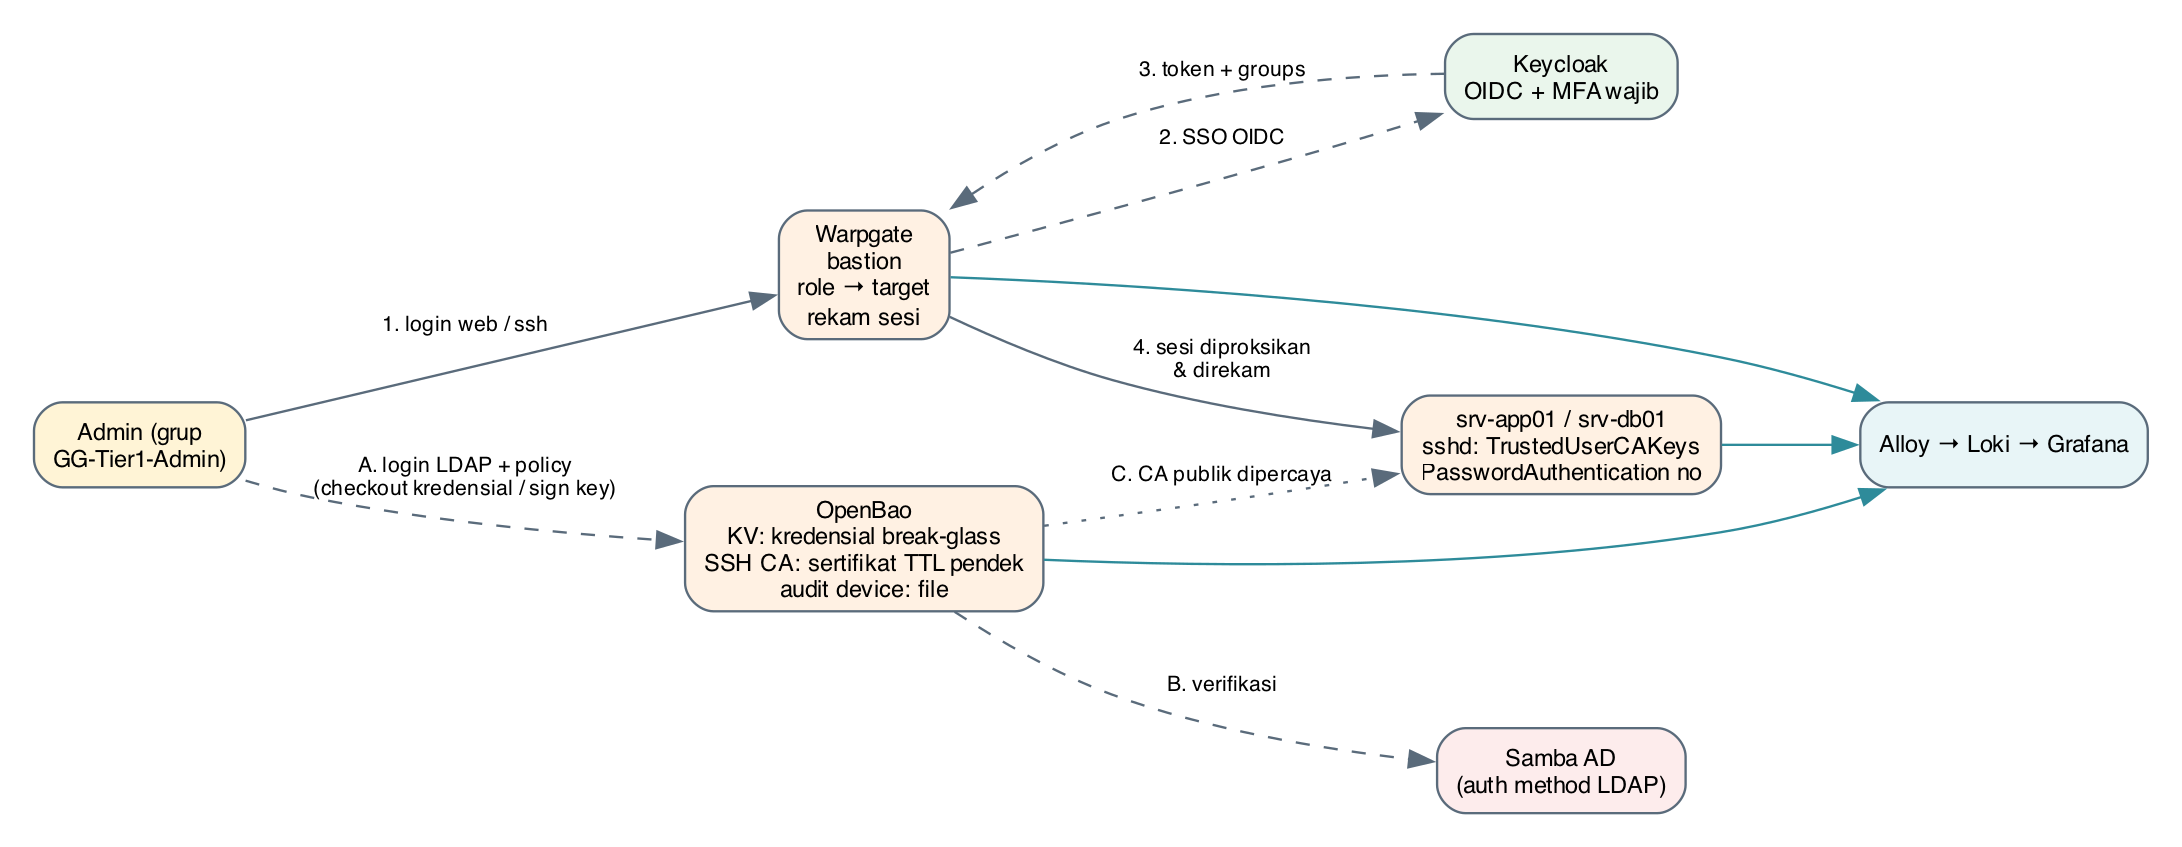
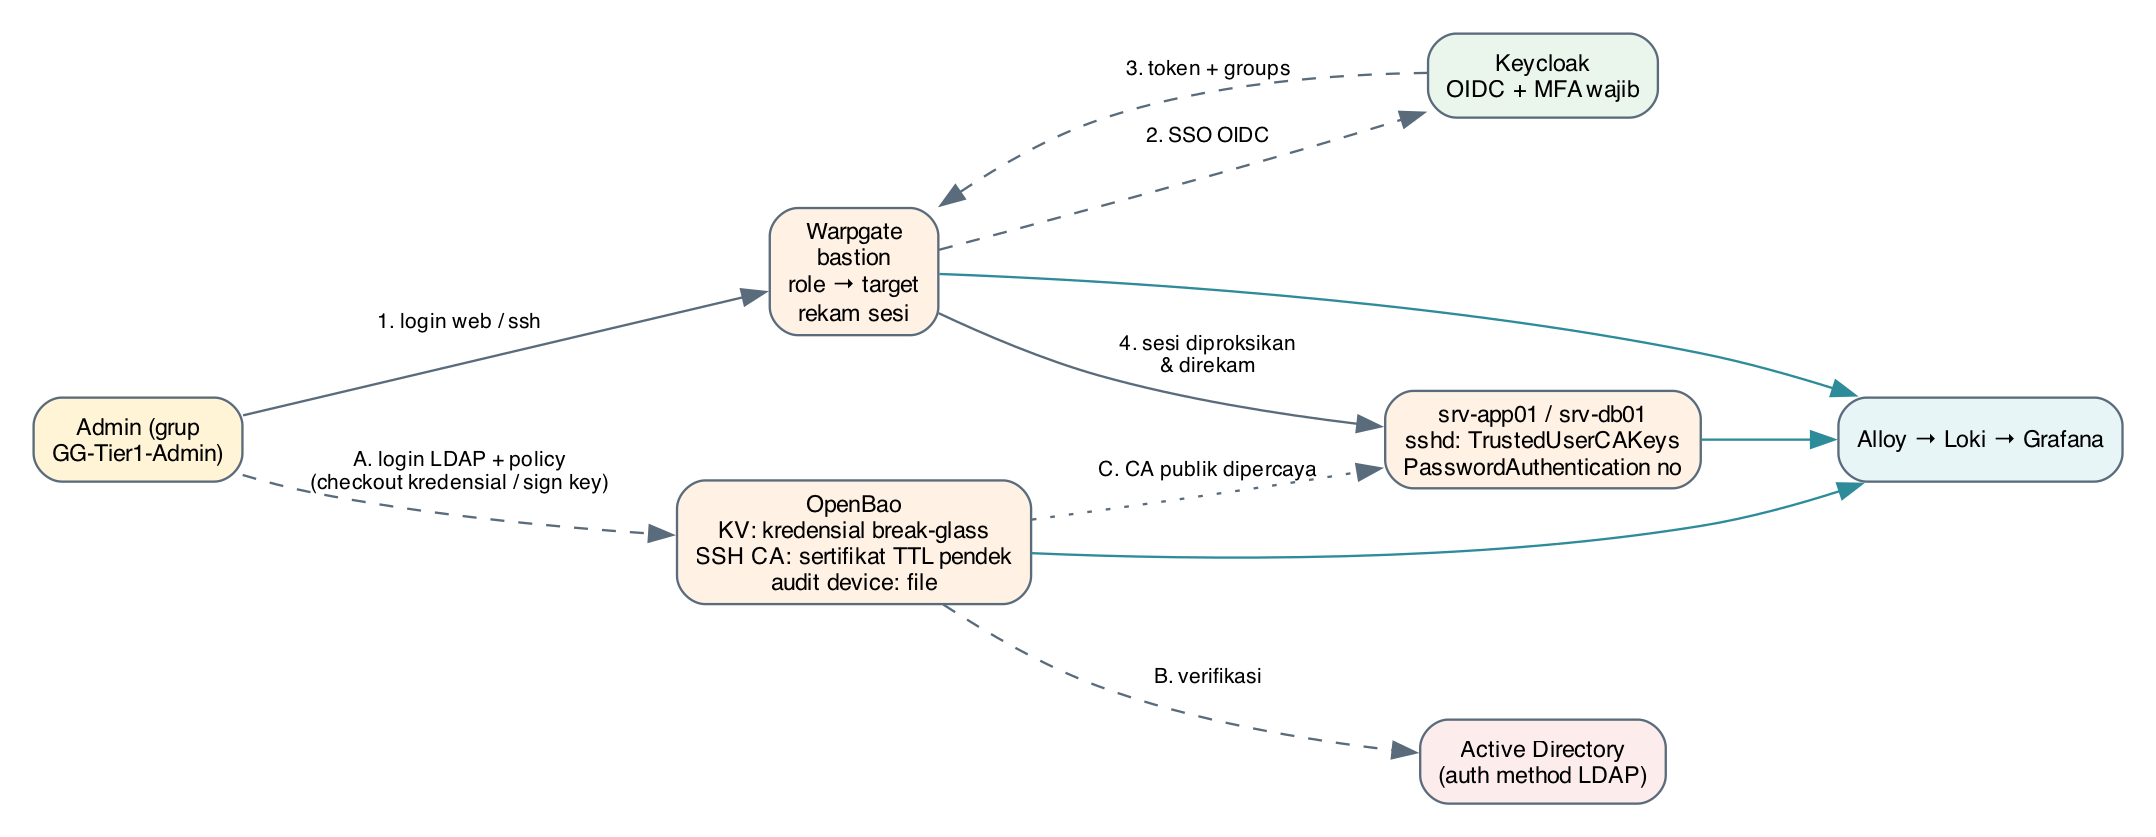
Perbaikan dari QA konteks-baru: samakan narasi AD Windows, perbaiki gambar bukti
- C1/C2: screenshot LDAP kini ldap-ad + ldaps://dc1.iamlab.test:636 (bukan samba/389);
  diagram alur-pam & pipeline-log pakai Active Directory / Windows Event (bukan Samba)
- M2: Warpgate login → konsol admin (Config: target SSH, Users, Access roles, rekam sesi)
- M3: Mailpit kini berisi email (akun baru, alert brute force, reset sandi)
- M1: hapus placeholder dev & lunakkan janji screenshot GUI Windows di Sesi 1
- M4: hapus referensi 'Bab 11 dokumen' dari import-ad.ps1
- m1: tambah screenshot Client tab Advanced (PKCE S256)
- m4/m5: catatan admin permanen; catatan deploy disediakan instruktur

diff --git a/sesi-2-sso-mfa/README.md b/sesi-2-sso-mfa/README.md
@@ -91,6 +91,10 @@ Cocokkan layar pengaturan client:
 
 ![Keycloak — detail Client app-komentar (redirect URI, PKCE, akses)](gambar/kc-client-detail.png)
 
+Tab Advanced menampilkan PKCE S256 (wajib):
+
+![Keycloak — Client app-komentar tab Advanced (PKCE S256)](gambar/kc-client-advanced.png)
+
 ![Keycloak — daftar Clients realm iamlab](gambar/kc-clients.png)
 
 Lalu 🖥 salin **Client secret** ke `deploy/.env` (`APP_OIDC_CLIENT_SECRET=…`) dan muat
@@ -109,10 +113,13 @@ ulang aplikasi: `docker compose up -d app-komentar`.
 - **Authentication → Flows**: duplikat *Browser*, tambah sub-flow **Conditional OTP** →
   *OTP Form* **Required**, targetkan ke grup admin & client kritikal (Grafana, Warpgate).
 
-  ![Keycloak — Authentication flows](gambar/kc-auth-flows.png)
+  ![Keycloak — Authentication flows (duplikat Browser lalu tambah sub-flow Conditional OTP = Required)](gambar/kc-auth-flows.png)
 
 - Uji: pengguna biasa login App-Komentar tanpa OTP; **admin dipaksa memindai QR**
   Google Authenticator.
+
+> Keamanan: Keycloak menampilkan banner "temporary admin user". Buat akun admin
+> permanen (Realm master → Users) lalu hapus akun sementara sebelum produksi.
 
 ### 5. 🌐 Brute force, SMTP, events
 - **Realm settings → Security defenses → Brute force detection: On**.

diff --git a/sesi-3-pam/README.md b/sesi-3-pam/README.md
@@ -97,7 +97,7 @@ docker compose up -d warpgate
 Login admin ke web UI; tambahkan **SSO OIDC** ke Keycloak (MFA wajib), **target** SSH
 `srv-app01`/`srv-db01` dengan **role** terbatas, dan aktifkan **perekaman sesi**:
 
-![Warpgate — halaman masuk web UI (admin mengelola target, role, rekaman)](gambar/warpgate-login.png)
+![Warpgate — konsol admin (Config): tambah target SSH, Users, Access roles, perekaman sesi](gambar/warpgate-admin.png)
 
 ### C.1 🖥 Akses target via SSH melalui bastion (sesuai silabus)
 Peserta tidak SSH langsung ke server — selalu lewat bastion. Format Warpgate memakai

diff --git a/sesi-1-direktori-gpo/README.md b/sesi-1-direktori-gpo/README.md
@@ -147,8 +147,8 @@ auditpol /set /subcategory:"Kerberos Service Ticket Operations" /success:enable 
 2. **Tautkan** ke `OU=Tier1-Servers`; atur **Security Filtering** (grup komputer).
 3. Verifikasi: `gpupdate /force` lalu `gpresult /h C:\gpreport.html`.
 
-> Tangkapan layar GUI Windows (GPMC/ADUC/gpresult) disimpan di [`gambar/`](gambar/) dan
-> diambil di VM DC saat lab berjalan.
+> Tangkapan layar GUI Windows (GPMC, ADUC, `gpresult`) diambil langsung di VM DC
+> saat sesi berlangsung (instruktur mendemokan di layar).
 
 ---
 

diff --git a/README.md b/README.md
@@ -31,6 +31,9 @@ Sesi 1–4 berurutan. Tiap sesi disusun dengan struktur yang sama:
 
 ## Catatan
 
+> Catatan: folder `deploy/` (compose + konfigurasi) TIDAK ada di repo ini — lingkungan
+> disediakan terpisah oleh instruktur (OVA/image). Modul berfokus pada konfigurasi.
+
 Lingkungan lab (VM Active Directory dan stack layanan Docker) disiapkan terlebih
 dahulu; peserta berfokus pada **konfigurasi keamanan** di tiap sesi, bukan instalasi
 dari nol. Detail arsitektur dan aliran data ada di [Sesi 0](sesi-0-pengantar/).
